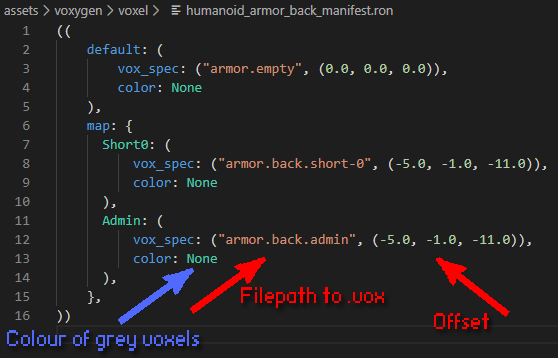
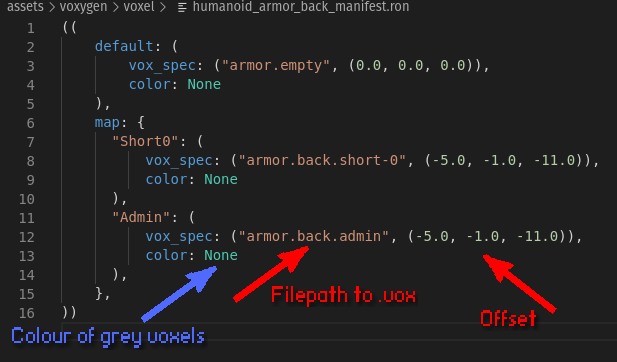
Updated armor addition guide to reflect changes in implementation

diff --git a/src/contributors/guides/adding-armor/guide.md b/src/contributors/guides/adding-armor/guide.md
@@ -2,19 +2,19 @@
 
 \\\_ made by @Pfau
 
+\\\_ updated by @BottledByte
+
 ![Image1](image1.png)
 
-### What you need:
+## What you need
 
 An **IDE** of your choice (A programme that lets you view and edit code)
 
-Examples: [VSC](https://code.visualstudio.com/), [Atom](https://atom.io/), [Notepad++](https://notepad-plus-plus.org/downloads/)
+Examples: [VSCode](https://code.visualstudio.com/), [Atom](https://atom.io/), [Notepad++](https://notepad-plus-plus.org/downloads/)
 
 A **Voxel Editor** (To create the armour model)
 
 Example: [Magicavoxel](https://ephtracy.github.io/)
-
-A [guide](https://book.veloren.net/compile/index.html) on how to compile and run Veloren on your OS.
 
 The [character template](https://drive.google.com/file/d/1IUp35fsX1gKXEKpC2k_uDcNJ36cHChLI/view). (Can be opened with any voxel-editor that supports layers; i.e. Magicavoxel.)
 
@@ -44,7 +44,7 @@ To make the game actually load your creation there are several steps you have to
 
 They can be done in any order.
 
-### Copying the .vox into the asset folder:
+### Copying the .vox into the asset folder
 
 Make sure to **export your model(s) as .vox** and NOT just copy a saved .vox file from magicavoxel. Just copying will result in a ~10x bigger file size.
 
@@ -62,7 +62,7 @@ So for a chest armour called “leather_vest-0.vox” it is:
 assets/voxygen/voxel/armor/chest/leather_vest-0.vox
 ```
 
-### Naming scheme for .vox files:
+### Naming scheme for .vox files
 
 Single words are parted with an underscore (“\_”)
 
@@ -100,11 +100,13 @@ assets\voxygen\item_image_manifest.ron
 common/src/comp/inventory/item/armor.rs
 ```
 
-**ONLY needed for armour with .vox files**
+**Note:** _ONLY needed for armour with .vox files_
 
 (list your new armour style in here)
 
-### Veloren has 12 types of armour:
+### Veloren has 12 types of armour
+
+**Types in bold** need a 3D .vox file
 
 - Head
 - Neck (Necklaces)
@@ -118,13 +120,12 @@ common/src/comp/inventory/item/armor.rs
 - **Back** (Capes, Backpacks...)
 - **Legs**
 - **Feet**
-- **Red** – Needs a 3d .vox file
 
-Armour types that need a 3d .vox file need to be listed in every file above.
+Armour types that need a 3D .vox file need to be listed in every file above.
 
-### Example for adding a new cape:
+### Example for adding a new cape
 
-1. New entry in `assets\voxygen\voxel\humanoid_armor_back_manifest.ron`
+#### 1. New entry in `assets\voxygen\voxel\humanoid_armor_back_manifest.ron`
 
 ![Image5](image5.png)
 
@@ -136,22 +137,22 @@ Copy this part (make sure to include the brackets and comma!) and paste it:
 
 ![Image8](image6.png)
 
-Fill in the name **of the item style.** This is the name you’ll add in _armor.rs_ later.
+Fill in the name **of the item style (kind).** This is the name you’ll use to later to match up assets.
 
 Note: `color: None` indicates that grey parts won’t be recoloured.
 
 To colour those parts put in “`color: Some((<R>, <G>, <B>))`” here.
 
-### Example of recoloured armour:
+##### Example of recoloured armour
 
 ```rust,ignore
-Brown: (
+"Brown": (
     vox_spec: ("armor.chest.grayscale", (-7.0, -3.5, 2.0)),
     color: Some((90, 49, 43))
 ),
 ```
 
-#### 2. New Entry in `assets/common/items/armor/<armour type>`
+#### 2. New entry in `assets/common/items/armor/<armour type>`
 
 ![Image9](image13.png)
 
@@ -162,52 +163,19 @@ Item(
     name: "New Cape",
     description: "Example Item",
     kind: Armor(
-        kind: Back(NewCape),
+        kind: Back("NewCape"),
         stats: (20),
     ),
 )
 ```
 
-Edit the file to have the right `kind.`(The same kind you put in before.)
+Edit the file to have the right `kind`. (The same kind you put in before.)
 
 ![Image10](image10.png)
 
-This creates a tooltip text similar to this.
+`description` field in Item creates a tooltip text similar to this.
 
-#### 3. Adding the armour style to `common/src/comp/inventory/item/armor.rs`
-
-Look for the armour style you want to add. If it’s not listed you are probably trying to add a style that doesn’t need a 3D asset.
-
-```rust,ignore
-#[derive(Copy, Clone, Debug, PartialEq, Eq, Hash, Serialize, Deserialize)]
-#[repr(u32)]
-pub enum Back {
-    Short0 = 1,
-    Admin = 2,
-}
-pub const ALL_BACKS: [Back; 2] = [Back::Short0, Back::Admin];
-```
-
-Every armour style has an `enum` and a `const.`
-
-In the `enum` you need to define the name and assign a number to it.
-
-Inside the `const` definition you need to increase the number of available styles and add the name like it’s done for the other parts.
-
-Example for the “NewCape”:
-
-```rust,ignore
-#[derive(Copy, Clone, Debug, PartialEq, Eq, Hash, Serialize, Deserialize)]
-#[repr(u32)]
-pub enum Back {
-    Short0 = 1,
-    Admin = 2,
-    NewCape= 3,
-}
-pub const ALL_BACKS: [Back; 3] = [Back::Short0, Back::Admin, Back::NewCape];
-```
-
-#### 4. Add a new item image in `assets\voxygen\item_image_manifest.ron`
+#### 3. Add a new item image in `assets\voxygen\item_image_manifest.ron`
 
 You can either use a .png or .vox file as an item image.
 
@@ -215,7 +183,7 @@ Example for a .png:
 
 ```rust,ignore
 // Lanterns
-Lantern(Black0): Png(
+Lantern("Black0"): Png(
     "element.icons.lantern_black-0",
 ),
 ```
@@ -223,7 +191,7 @@ Lantern(Black0): Png(
 Example for a .vox:
 
 ```rust,ignore
-Armor(Back(Short0)): VoxTrans(
+Armor(Back("Short0")): VoxTrans(
     "voxel.armor.back.short-0",
     (0.0, 0.0, 0.0), (-90.0, 180.0, 0.0), 1.0,
 ),
@@ -232,7 +200,7 @@ Armor(Back(Short0)): VoxTrans(
 In order to find the right posing numbers for the .vox it’s often a good idea to look for a similar item.
 
 ```rust,ignore
-Armor(Back(NewCape)): VoxTrans(
+Armor(Back("NewCape")): VoxTrans(
     "voxel.armor.back.new_cape-0",
     (0.0, 0.0, 0.0), (-90.0, 180.0, 0.0), 1.0,
 ),
@@ -242,13 +210,13 @@ You can use the same .vox as the actual 3D asset shown equipped on the character
 
 ![Image11](image7.png)
 
-#### 5. Finding the right offset for your item
+#### 4. Finding the right offset for your item
 
 In order to test your item in-game you need to compile your game now.
 
 Your new item will **only be available locally**, so make sure to connect to a local server or choose “Singleplayer”.
 
-To drop the item into your inventory use the chat command`/give_item:`
+To drop the item into your inventory use the chat command `/give_item:`
 
 ```
 /give_item common.items.armor.back.new_cape
@@ -263,7 +231,7 @@ To set the right offset you need to revisit `ssets/voxygen/voxel/humanoid/<armou
 The values in there can be hot-reloaded. That means just saving them will immediately take effect ingame.
 
 ```rust,ignore
-Admin: (
+"Admin": (
     vox_spec: ("armor.back.admin", (-5.0, -1.0, -0.0)),
     color: None
 ),
@@ -277,10 +245,20 @@ They represent the coordinates:
 
 X = Left (lower the number) and Right (increase the number) <br/>
 Y = Back (lower the number) and Forth (increase the number) <br/>
-Z = Up(increase the number) and Down (lower the number) <br/>
+Z = Up (increase the number) and Down (lower the number) <br/>
 
 Change the numbers until you get the desired offset.
 
 ![Image13](image12.png)
 
-**Done. You added a new armour style and item to Veloren. :)**
+## Done. You added a new armour style and item to Veloren. :)
+
+### But just in case something went wrong, a little troubleshooting advice
+
+It may happen that your armor displays as a big pink box with a question mark (in the world or in the inventory).
+
+If this happens, some entry is invalid, probably due to a typo in your style
+(kind; like "NewCape") or one of the asset paths. See the log for details to pin-point the source.
+
+If the game panics when loading your armor, it mostly means that the syntax
+of one or more entries in `.ron` files got garbled (like a missing parenthesis or a quote mark).
